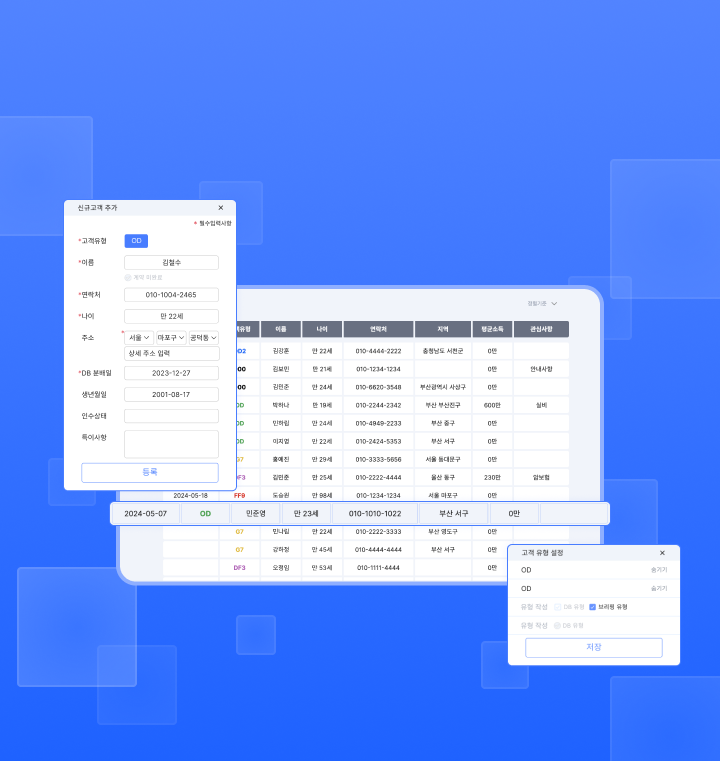
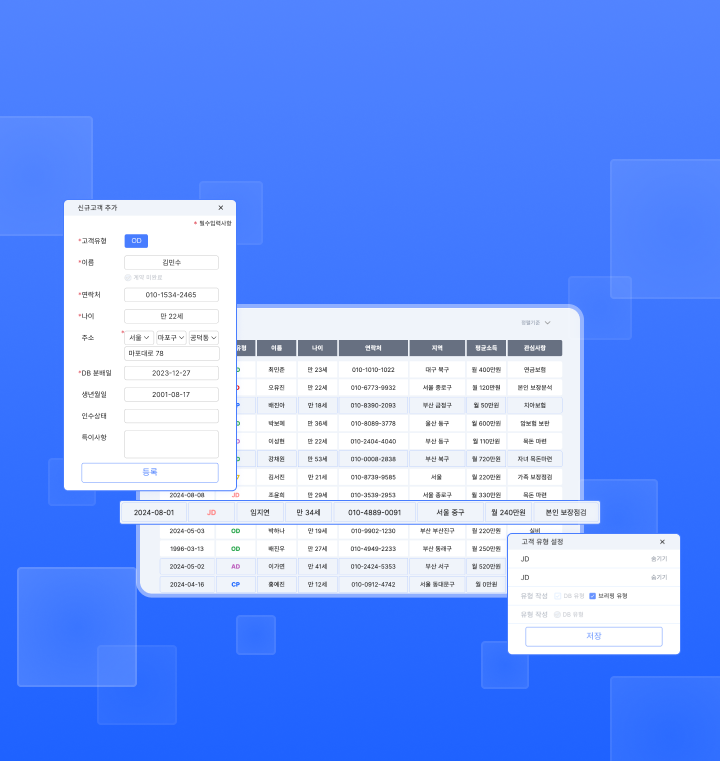
Fix: 로그인 UI 이미지 수정& 깨지는 부분 임시 수정

Changed region(s): [[0.1528, 0.3622, 0.9472, 0.8753], [0.1833, 0.4528, 0.2444, 0.4829]]

diff --git a/src/pages/NewLogin.js b/src/pages/NewLogin.js
@@ -2,20 +2,20 @@ import React, { useRef, useState } from "react";
 
 const NewLogin = ({ onStart }) => {
   return (
-    <div className="flex h-[100vh] w-full justify-center">
+    <div className="relative flex h-[100vh] w-full justify-center">
       {/* <Navbar /> */}
-      <div className="login_mobile_img  flex justify-center">
-        <div class="flex flex-col">
-          <div class="mt-[64px] h-[64px] w-[290px]  text-[24px] font-semibold leading-8 text-white">
+      <div className="login_mobile_img absolute   flex justify-center">
+        <div class="relative flex flex-col items-center">
+          <div class="relative top-[60px] h-[64px] w-[290px] text-[24px] font-semibold leading-8 text-white">
             고객 관리는 우리가 해줄게요. 영업에만 집중하세요.
           </div>
           <div class="flex justify-center">
-            <div class="mt-3  h-[44px]  w-[180px]  text-[14px] font-medium leading-8 text-[#EBF1FF]">
+            <div class="relative top-[70px] mt-3 h-[44px] w-[180px]  text-[14px] font-medium leading-8 text-[#EBF1FF]">
               INSUREPRO는 보험 설계사의 고객 관리를 서포팅해줍니다.
             </div>
           </div>
           <div
-            class="mt-[565px] flex h-[42px] w-[330px] cursor-pointer items-center justify-center rounded bg-white text-base font-semibold text-Primary-300 shadow-[0_0_16px_0_rgba(0,0,0,0.25)] hover:bg-Primary-300 hover:text-white"
+            class="relative top-[610px] flex h-[42px] w-[330px] cursor-pointer items-center justify-center rounded bg-white text-base font-semibold text-Primary-300 shadow-[0_0_16px_0_rgba(0,0,0,0.25)] hover:bg-Primary-300 hover:text-white"
             onClick={onStart}
           >
             INSUREPRO 이용하기

diff --git a/src/App.css b/src/App.css
@@ -302,6 +302,12 @@ body {
   background-position: center;
   width: 100vw;
   height: 100%;
+  display: flex;
+  /* align-items: center; */
+  overflow-y: auto; /* 세로 스크롤 활성화 */
+  touch-action: pan-y; /* 세로 방향으로 터치 조작을 허용 */
+  /* justify-content: center; */
+  /* position: relative; */
   /* background-color: rgba(0, 0, 0, 0.4); 검은색 배경 투명도 0.4 */
 }
 .login_input_box {
@@ -332,6 +338,7 @@ body {
   background-size: auto;
   background-position: center;
   background-blend-mode: multiply;
+
   /* width: 1280px; */
   /* height: 100%; */
   /* background-color: rgba(0, 0, 0, 0.4); 검은색 배경 투명도 0.4 */
